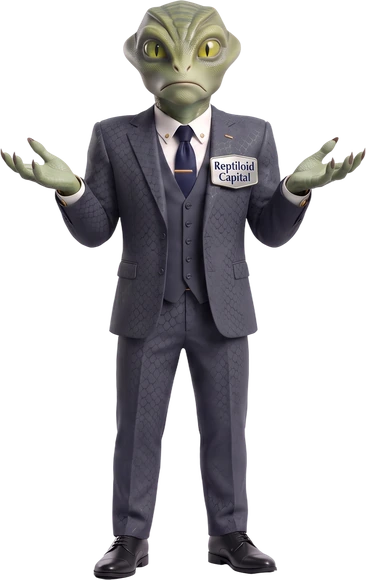
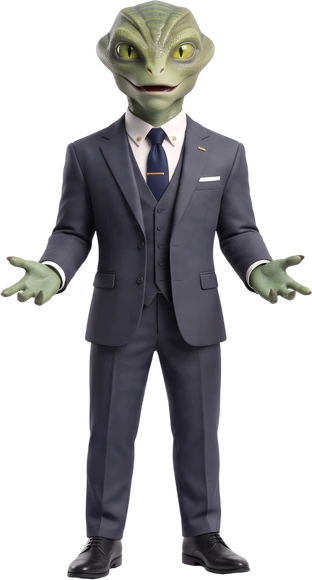
onboarding guardrails: buttons locked during watch-phases, chart pauses at decision points, mockup mascot art

diff --git a/shell.js b/shell.js
@@ -2498,6 +2498,9 @@ function runTutStep() {
     setTutHold(false); // игра живёт: игрок смотрит на динамику, не на текст
     const tr = gameTrade();
     try { if (tr && tr.setChartHold) tr.setChartHold(false); } catch (err) {}
+    // «за ручку» (Павел 02.08): пока сценарий не дошёл до события шага — обе кнопки
+    // залочены, игрок только смотрит на график (баг: успевал взять Long до «пора шортить»)
+    try { if (tr && tr.setTutLock) tr.setTutLock(true); } catch (err) {}
     try { if (tr && tr.tutSimPos) tr.tutSimPos(false); } catch (err) {}
     try { if (tr && tr.tutGo) tr.tutGo(); } catch (err) {} // отпустить стартовый hold сценария
     return;
@@ -2540,9 +2543,12 @@ function showTutStep() {
   // сим-панель открытой позиции (мокап 568:15209, шаг про −50%): игра рисует
   // фейковую позицию с полосой ликвидации; на любом другом шаге — гасится
   try { if (tr && tr.tutSimPos) tr.tutSimPos(cfg.sim === 'pos'); } catch (err) {}
-  // read-шаг (виден Next) МОРОЗИТ график — «спокойно прочитать текст» (Павел 01.08);
-  // wait/on-шаги живут: игрок должен видеть динамику, на которую реагирует
-  try { if (tr && tr.setChartHold) tr.setChartHold(!cfg.wait); } catch (err) {}
+  // ЛЮБОЙ видимый бабл МОРОЗИТ график (Павел 01–02.08): read-шаг — «спокойно прочитать
+  // текст», wait-шаг — цена встала в решающую точку (верх перед падением / дно перед
+  // выходом) и ждёт тапа сколько угодно («чтобы бабка 50+ успела»). График бежит только
+  // в СКРЫТЫХ on-фазах между баблами — и там кнопки залочены (setTutLock)
+  try { if (tr && tr.setChartHold) tr.setChartHold(true); } catch (err) {}
+  try { if (tr && tr.setTutLock) tr.setTutLock(false); } catch (err) {}
   tutLayout();
 }
 function tutNext() {
@@ -2596,7 +2602,7 @@ function endTutorial() {
   const tr = gameTrade();
   try { if (tr && tr.setChartHold) tr.setChartHold(false); } catch (err) {}
   try { if (tr && tr.tutSimPos) tr.tutSimPos(false); } catch (err) {}
-  try { if (tr && tr.tutFree) tr.tutFree(); } catch (err) {}
+  try { if (tr && tr.tutFree) tr.tutFree(); } catch (err) {} // tutFree сам снимает tutLock
   if (tutKind === 'ob') finishTutRound();
   tutSeq = null;
 }

diff --git a/games/trade/game.js b/games/trade/game.js
@@ -1859,6 +1859,9 @@ function frame(ts) {
 function onAction(dir) {
   Sound.ensure();
   if (G.screen !== 'game' || G.paused || G.over) return;
+  // tutLock (баг Павла 02.08: в туторе 2 успел взять Long до сценарного «пора шортить»):
+  // на on-фазах туториала обе кнопки залочены — игрок «за ручку» смотрит на график
+  if (G.tutLock) return;
   if (!G.pos) enterPos(dir || 1); else exitPos();
 }
 
@@ -1976,9 +1979,20 @@ window.__trade = { G, CFG, Feed, P, saveP, targetStage, roundCaps, startRound, e
      отпуск стартового hold-сегмента сценария, полный сброс сценария на Skip */
   setTimeHold(v) { G.timeHold = !!v; },
   setChartHold(v) { G.chartHold = !!v; }, // read-шаги морозят график (Павел 01.08)
+  // лок действий на on-фазах туториала (Павел 02.08 «за ручку вести»): кнопки гаснут
+  // визуально и не принимают тапы, пока сценарий не дойдёт до своего события
+  setTutLock(v) {
+    G.tutLock = !!v;
+    try { document.querySelector('.game-action').classList.toggle('tutlock', G.tutLock); } catch (e) {}
+  },
   tutSimPos,                              // сим-панель позиции для шага −50% (568:15209)
   tutGo() { G.tutGo = true; },
-  tutFree() { G.tutGo = true; G.timeHold = false; G.chartHold = false; tutSimPos(false); if (G.engine) G.engine.script = null; },
+  tutFree() {
+    G.tutGo = true; G.timeHold = false; G.chartHold = false; tutSimPos(false);
+    G.tutLock = false;
+    try { document.querySelector('.game-action').classList.remove('tutlock'); } catch (e) {}
+    if (G.engine) G.engine.script = null;
+  },
 }; // QA hook
 applyGT();
 readTheme();

diff --git a/games/trade/style.css b/games/trade/style.css
@@ -1074,6 +1074,10 @@ html[data-skin="paper"] .frac-study { color:#4068F5; }
    отовсюду»); классы .draftable/.draft-chip в JS остались инвентарём — не рисуют */
 .draft-chip { display:none; }
 
+/* tutLock (Павел 02.08): on-фазы туториала — кнопки действий погашены и не тапаются,
+   игрок смотрит на график; отпускается вместе с показом wait-шага */
+.game-action.tutlock .bigbtn { opacity:.45; pointer-events:none; transition:opacity .25s; }
+
 /* ============================================================================
    PAPER component layer — папирусные отличия, не выражаемые токенами
    (spec-game-round/position.txt, f2057/f2058; язык 251880e).
